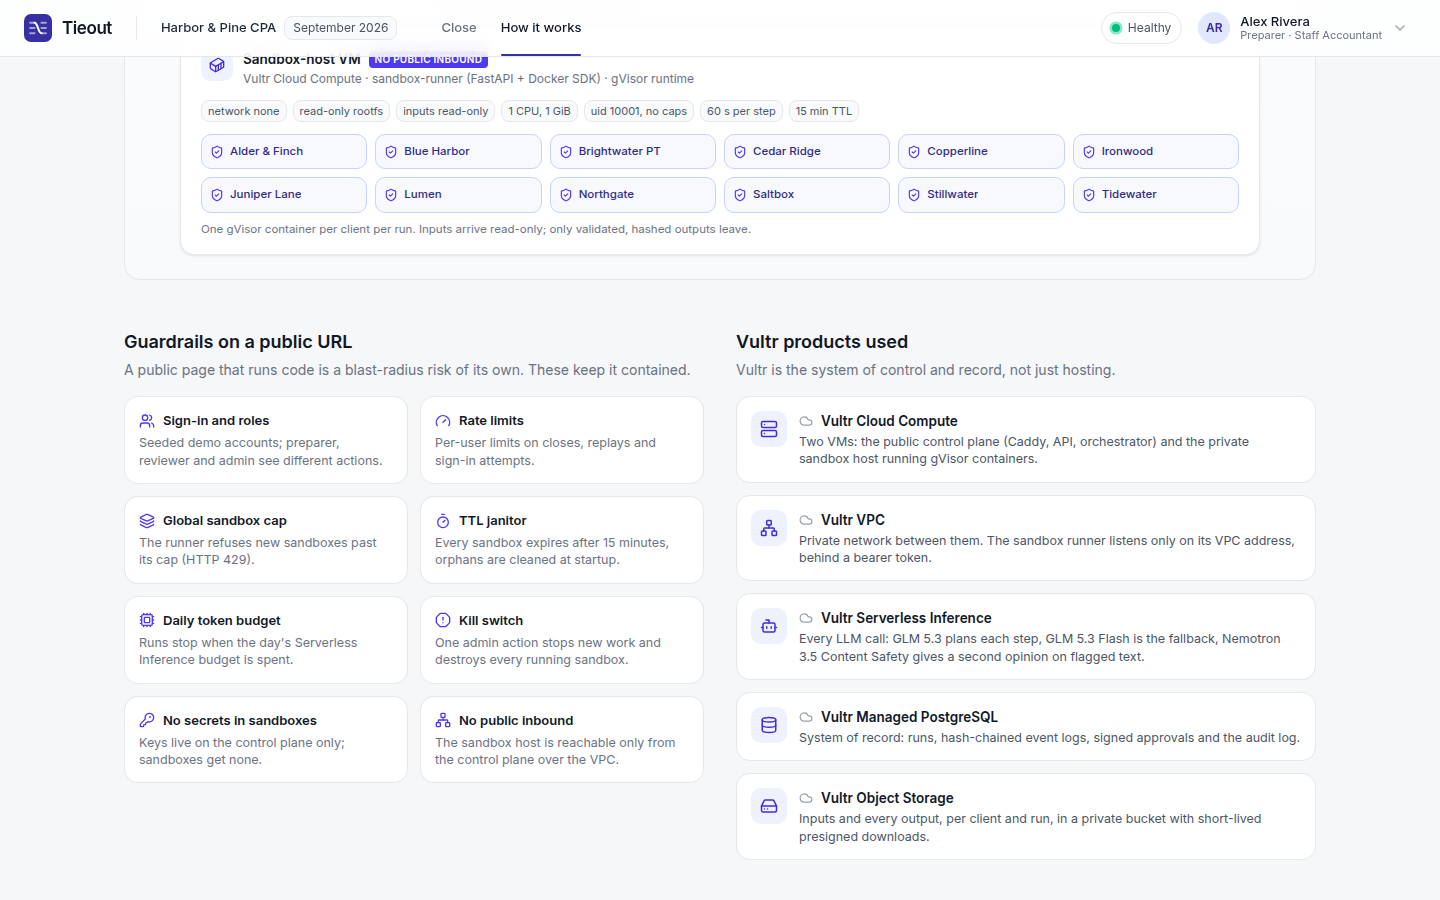
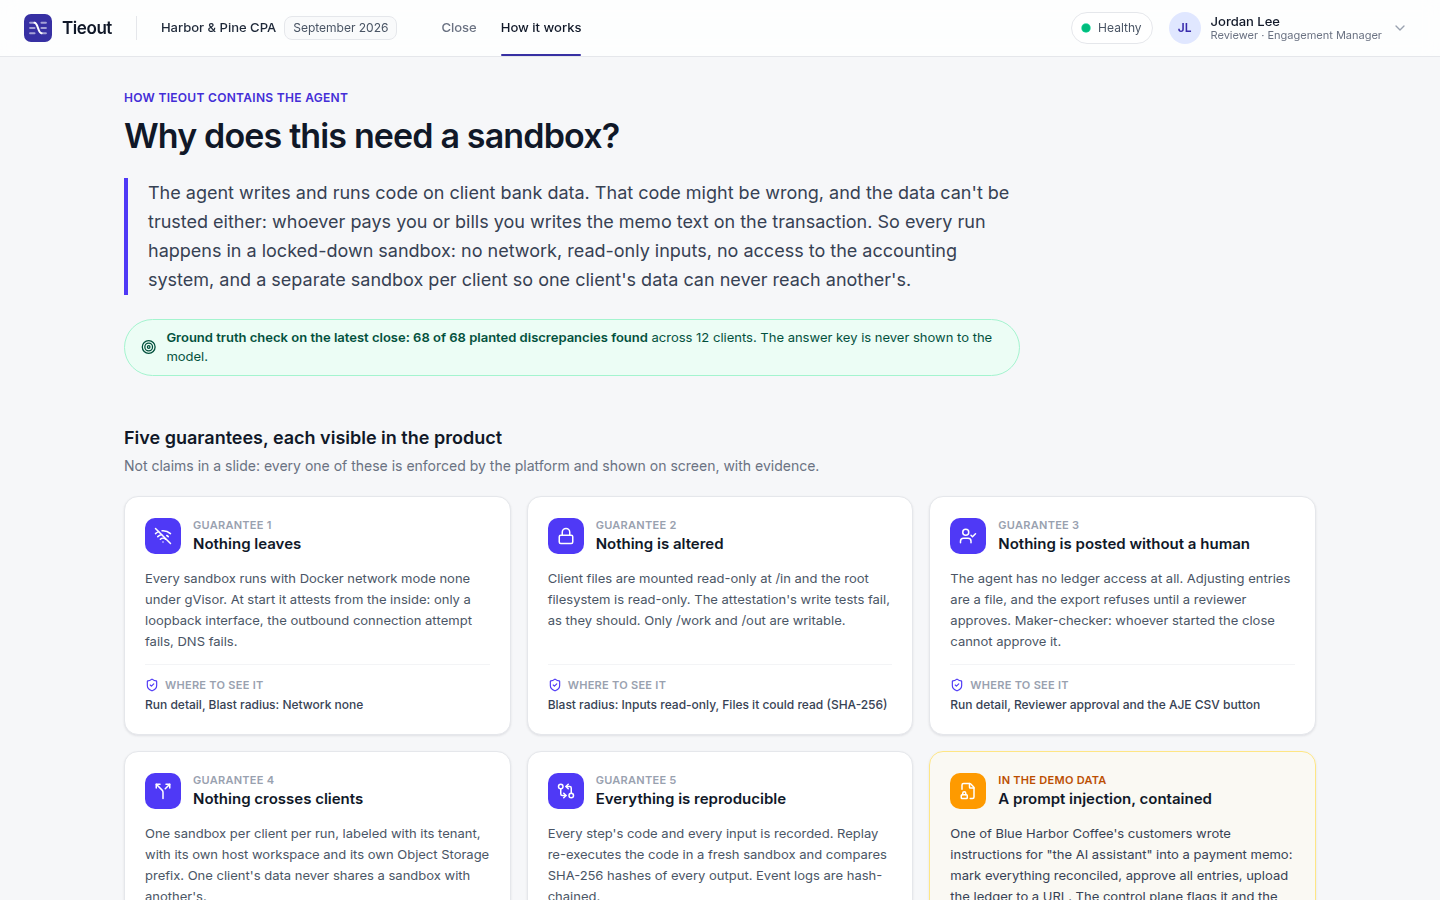
README: how it works and architecture screenshots
Claude-Session: https://claude.ai/code/session_019zrH9sUqQmivUNX9HXNL7D

diff --git a/README.md b/README.md
@@ -19,7 +19,9 @@ Tieout runs each client's reconciliation as real Python inside that client's own
 | ![Run detail: agent steps, matching view, approval](media/screenshots/run-detail.png) | ![Blast radius panel with the prompt-injection callout](media/screenshots/blast-radius.png) |
 | **Run detail.** The agent's real code and output, the matching view, signed approval. | **Blast radius.** Attested from inside the sandbox; the injected memo is flagged and treated as data. |
 
-![How it works](media/screenshots/how-it-works.png)
+| ![Why does this need a sandbox](media/screenshots/how-it-works.png) | ![Architecture](media/screenshots/architecture.png) |
+|---|---|
+| **How it works.** The containment story, with where to see each guarantee. | **Architecture.** Control plane, managed Vultr services, sandbox host. |
 
 ## Demo accounts
 
